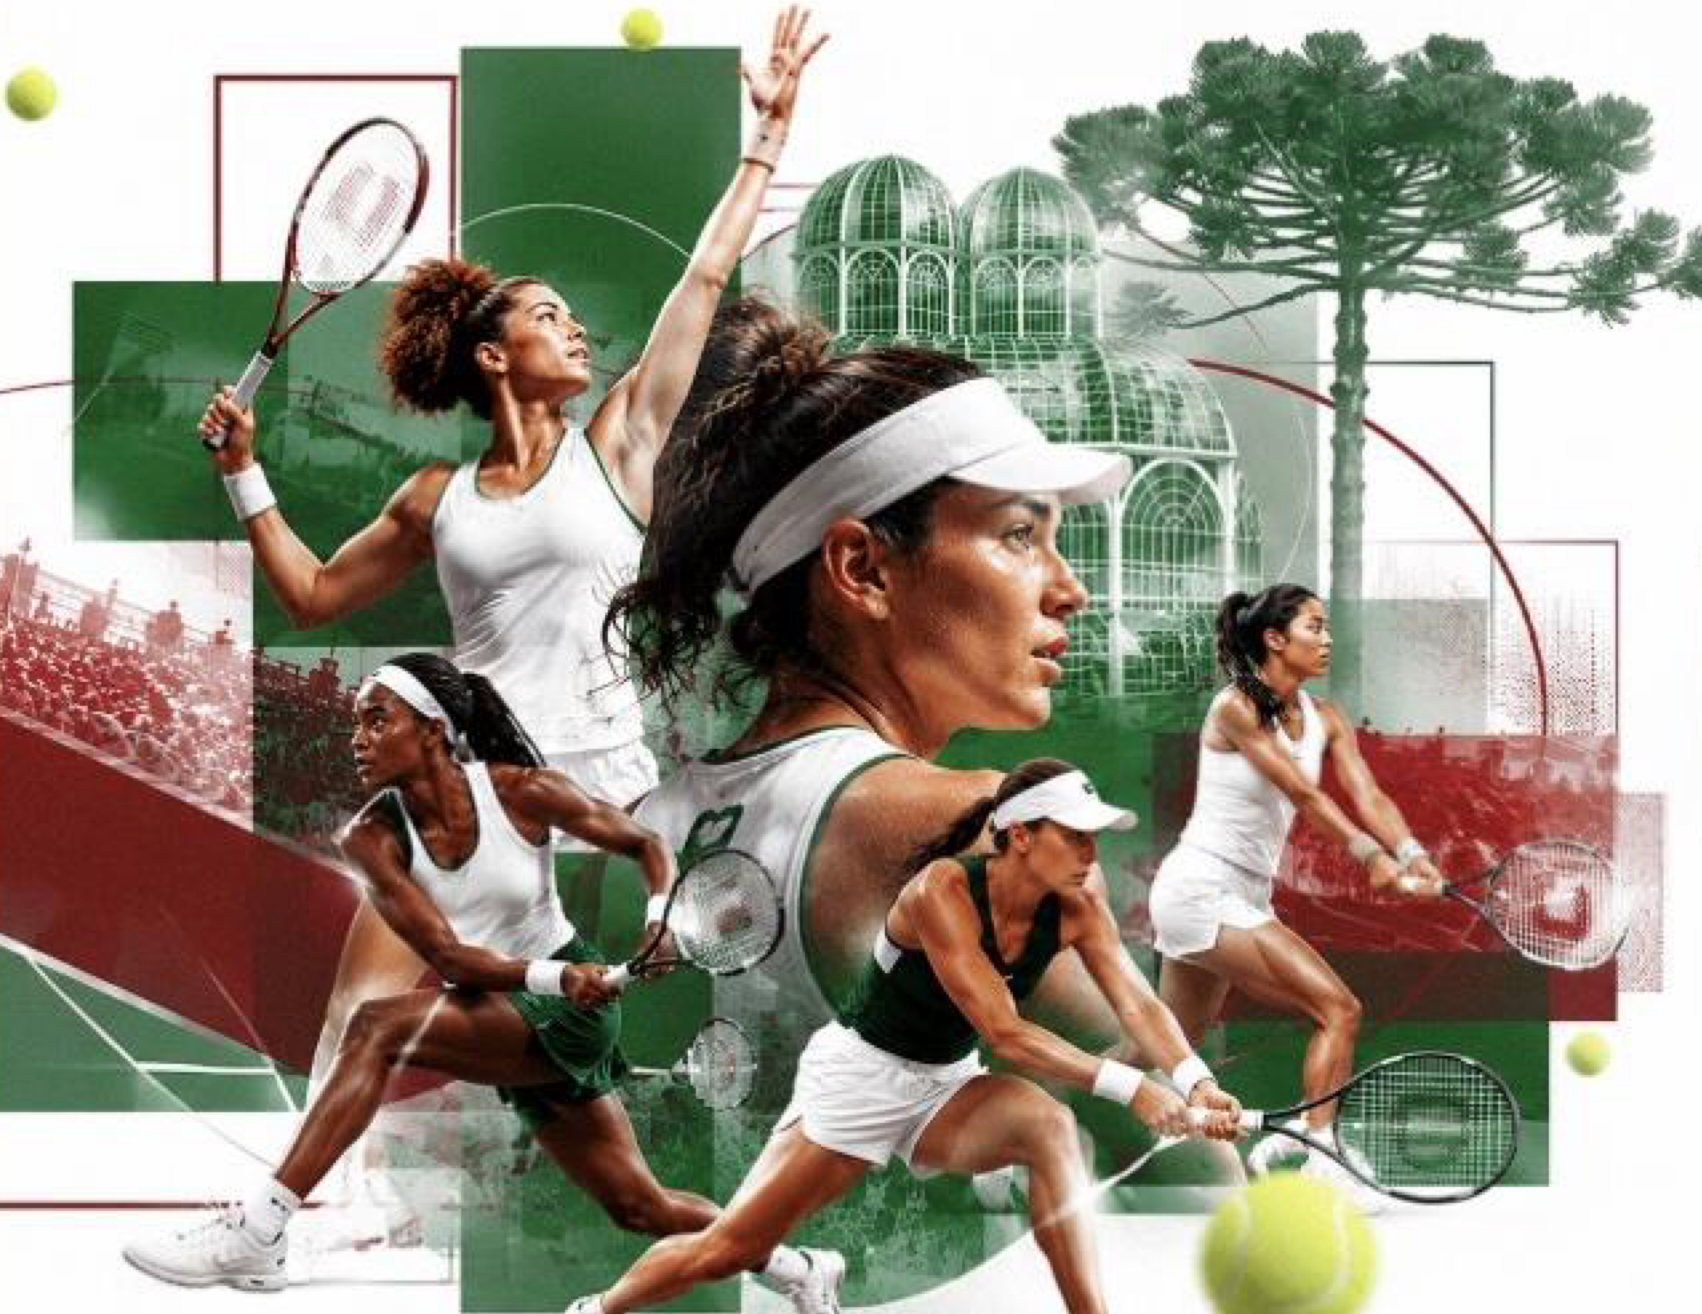
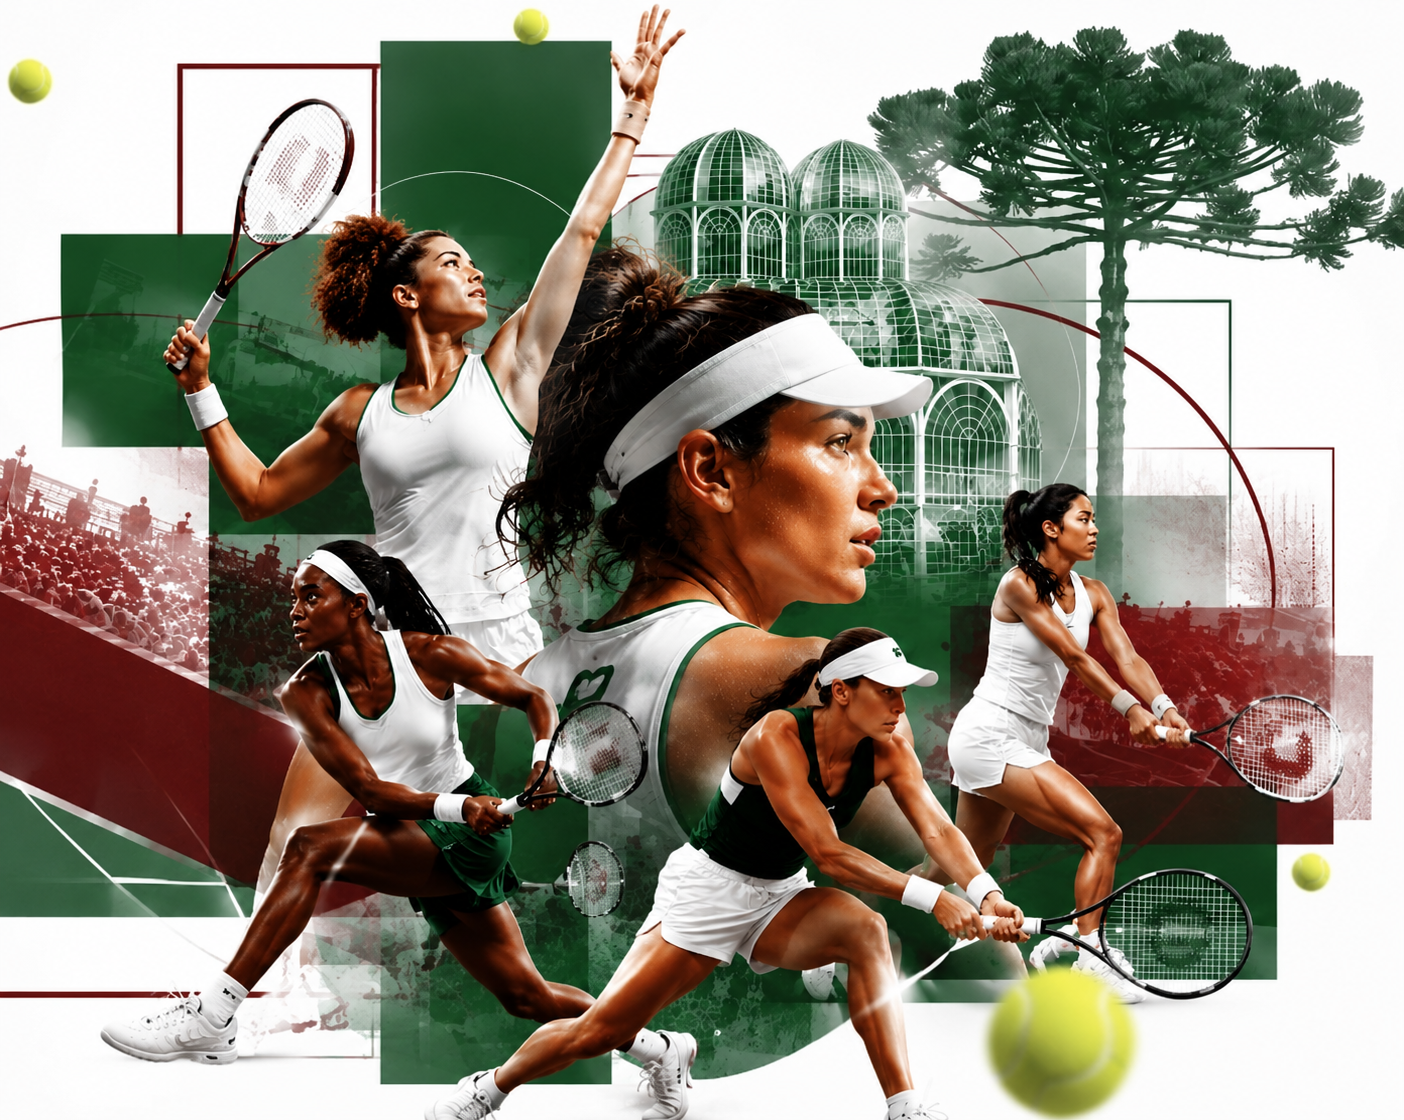
Add files via upload

diff --git a/style.css b/style.css
@@ -2,94 +2,96 @@
   box-sizing: border-box;
 }
 
-body {
+html, body {
   margin: 0;
+  width: 100%;
+  min-height: 100%;
   font-family: Arial, Helvetica, sans-serif;
-  background: #f7f5ef;
-  color: #ffffff;
+  background: #0c2418;
 }
 
-.hero {
-  min-height: 100vh;
+.cover {
   position: relative;
+  width: 100%;
+  min-height: 100vh;
   overflow: hidden;
   display: flex;
   align-items: center;
 }
 
-.image-wrap {
+.cover-image {
   position: absolute;
   inset: 0;
-  z-index: 1;
-}
-
-.image-wrap img {
   width: 100%;
   height: 100%;
   object-fit: cover;
-  object-position: center;
+  object-position: center right;
+  z-index: 1;
 }
 
-.hero::after {
-  content: "";
+.overlay {
   position: absolute;
   inset: 0;
   z-index: 2;
   background:
-    linear-gradient(90deg, rgba(15, 42, 29, 0.92) 0%, rgba(15, 42, 29, 0.68) 34%, rgba(15, 42, 29, 0.08) 72%),
-    linear-gradient(0deg, rgba(70, 18, 22, 0.22), rgba(70, 18, 22, 0.02));
+    linear-gradient(90deg, rgba(7, 31, 21, 0.96) 0%, rgba(7, 31, 21, 0.78) 28%, rgba(7, 31, 21, 0.22) 58%, rgba(7, 31, 21, 0.02) 100%);
 }
 
-.content {
+.cover-content {
   position: relative;
   z-index: 3;
-  width: min(90%, 1200px);
-  margin: 0 auto;
-  padding: 72px 0;
-}
-
-.eyebrow {
-  margin: 0 0 20px;
-  text-transform: uppercase;
-  letter-spacing: 0.28em;
-  font-size: 13px;
-  color: #e9e1c8;
+  padding-left: clamp(32px, 7vw, 110px);
+  padding-right: 32px;
+  color: #ffffff;
+  max-width: 720px;
 }
 
 h1 {
   margin: 0;
-  text-transform: uppercase;
-  letter-spacing: -0.05em;
-  font-size: clamp(58px, 10vw, 142px);
+  font-size: clamp(54px, 8.5vw, 132px);
   line-height: 0.86;
-  max-width: 760px;
+  letter-spacing: -0.06em;
+  font-weight: 900;
+  text-transform: uppercase;
 }
 
-.subtitle {
-  margin: 34px 0 0;
-  text-transform: uppercase;
-  letter-spacing: 0.22em;
-  font-size: clamp(22px, 3vw, 38px);
-  color: #f4f1e7;
+.follow {
+  margin: clamp(28px, 4vw, 52px) 0 0;
+  font-size: clamp(22px, 3vw, 42px);
+  letter-spacing: 0.28em;
+  font-weight: 500;
 }
 
 .date {
-  margin: 18px 0 0;
-  font-size: 22px;
-  color: #e4d7b9;
+  margin: 22px 0 0;
+  color: #f0e8cc;
+  font-size: clamp(20px, 2vw, 28px);
+  font-weight: 500;
 }
 
 @media (max-width: 760px) {
-  .hero {
+  .cover {
     align-items: flex-end;
   }
 
-  .hero::after {
-    background:
-      linear-gradient(0deg, rgba(15, 42, 29, 0.96) 0%, rgba(15, 42, 29, 0.76) 45%, rgba(15, 42, 29, 0.10) 100%);
+  .cover-image {
+    object-position: center center;
   }
 
-  .content {
-    padding: 42px 0;
+  .overlay {
+    background:
+      linear-gradient(0deg, rgba(7, 31, 21, 0.96) 0%, rgba(7, 31, 21, 0.70) 44%, rgba(7, 31, 21, 0.05) 100%);
+  }
+
+  .cover-content {
+    padding: 0 28px 48px;
+  }
+
+  h1 {
+    font-size: clamp(48px, 15vw, 76px);
+  }
+
+  .follow {
+    letter-spacing: 0.18em;
   }
 }

diff --git a/index.html b/index.html
@@ -7,15 +7,14 @@
   <link rel="stylesheet" href="style.css" />
 </head>
 <body>
-  <main class="hero">
-    <div class="image-wrap">
-      <img src="assets/capa-wta-curitiba.png" alt="Collage visual com atletas de tênis e referências de Curitiba" />
-    </div>
+  <main class="cover">
+    <img class="cover-image" src="assets/capa-wta-curitiba.png" alt="Imagem oficial WTA Curitiba 2026" />
 
-    <section class="content">
-      <p class="eyebrow">Curitiba apresenta</p>
-      <h1>WTA Curitiba<br />2026</h1>
-      <p class="subtitle">Follow Up</p>
+    <div class="overlay"></div>
+
+    <section class="cover-content">
+      <h1>WTA<br>CURITIBA<br>2026</h1>
+      <p class="follow">FOLLOW UP</p>
       <p class="date">Junho 2026</p>
     </section>
   </main>